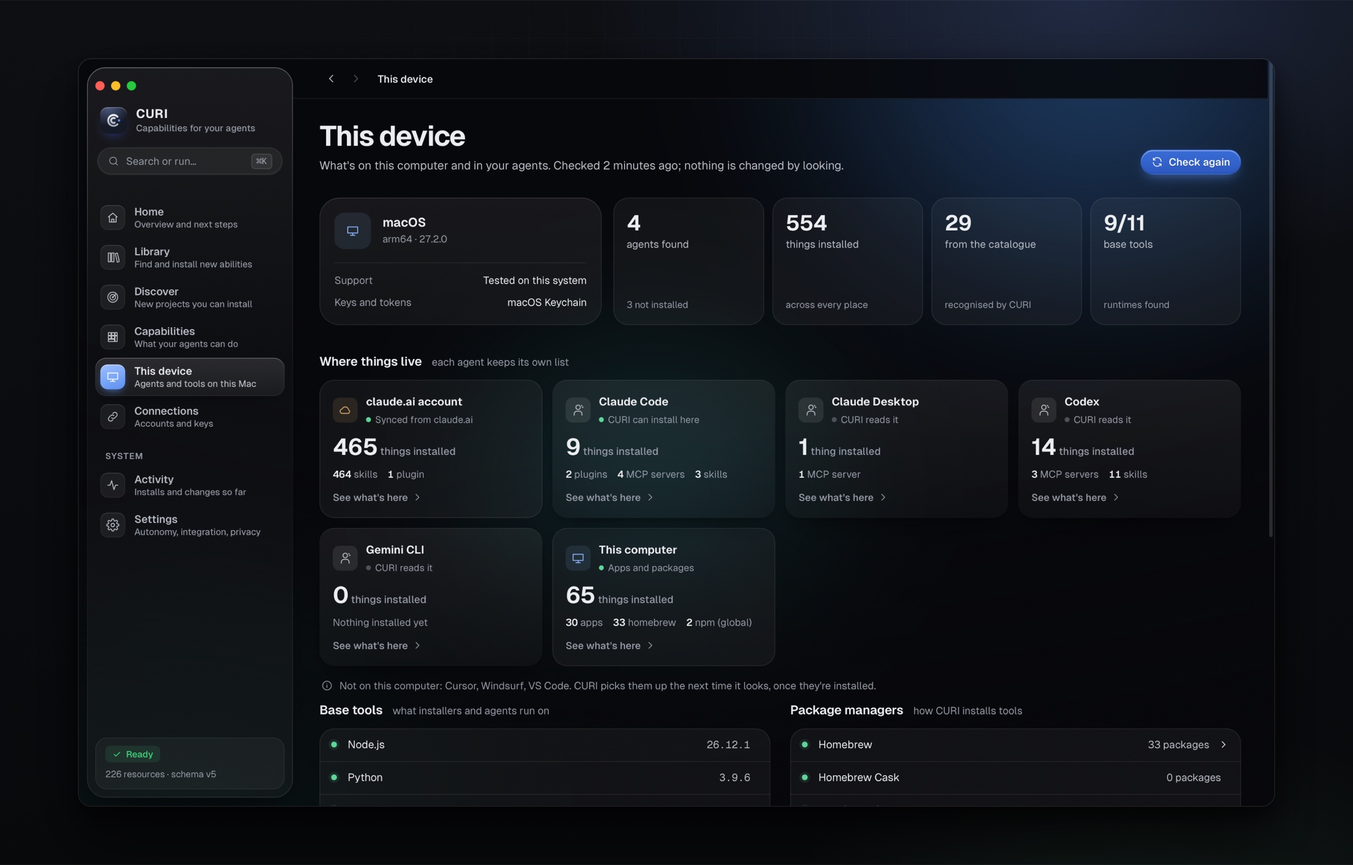
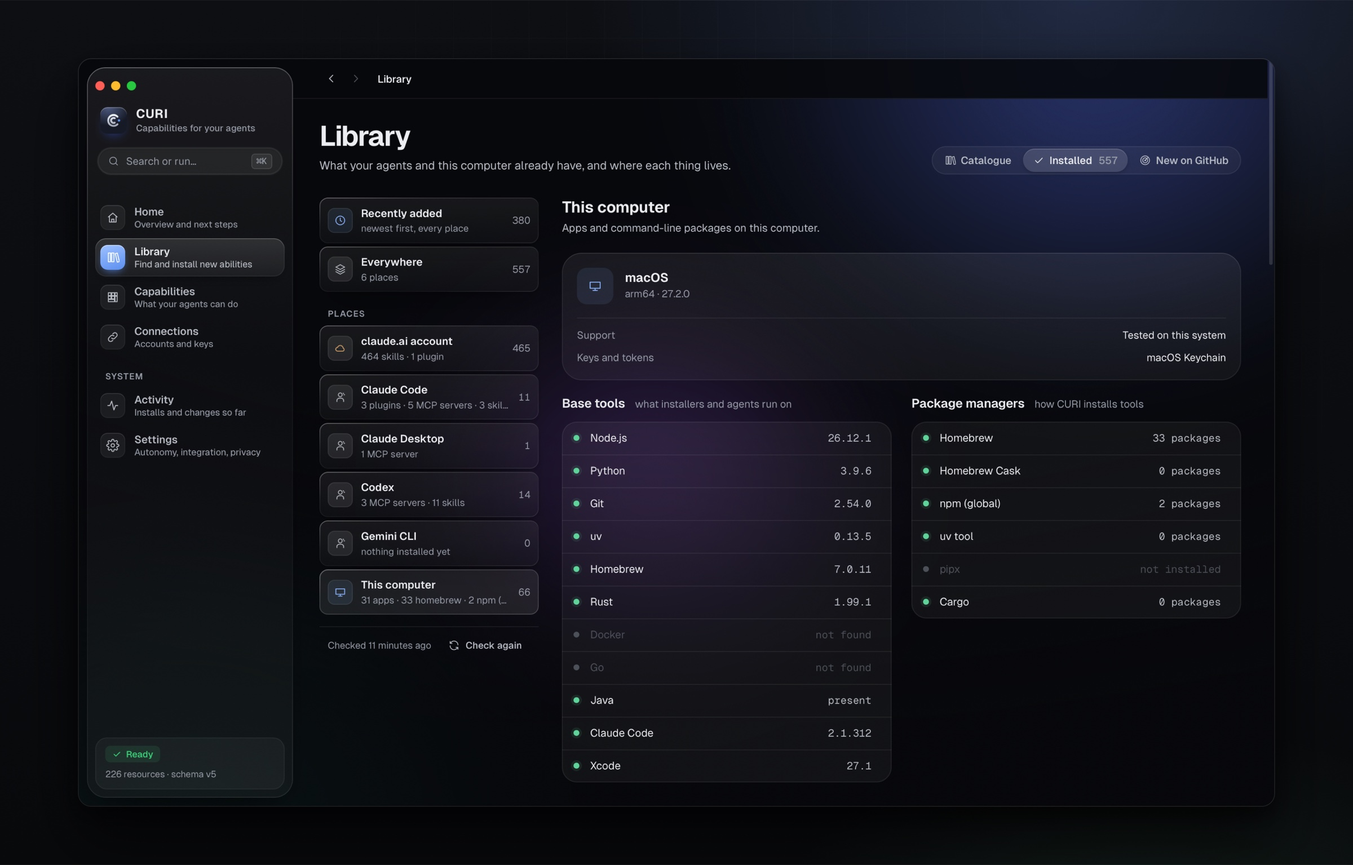
Library with three tabs, This device folded into Installed
Library: Catalogue, Installed and New on GitHub (formerly Discover).
This device becomes Installed › This computer, with the system, base
tools and package managers above its list. Sidebar, shortcuts and the
macOS menu follow; old links redirect. Weekly GitHub discovery and the
stars review are on by default (read-only). Screenshots re-rendered.

diff --git a/app/views/device.js b/app/views/device.js
@@ -1,83 +1,31 @@
-// This device: the computer, the agents on it and the base tools they rely on, at a glance. The full
-// list of what each agent holds lives in Library › Installed; every number here opens it.
-import { h, relTime } from '../lib/dom.js';
+// This computer, at a glance: the system, the base tools installers and agents run on, and the package
+// managers CURI installs through. Shown at the top of Library › Installed › This computer.
+import { h } from '../lib/dom.js';
 import { icon } from '../lib/icons.js';
-import { api, btn, empty, notice } from '../lib/ui.js';
-import { go } from '../app.js';
-import { runOperation } from './control.js';
 
 const RT = [['node', 'Node.js'], ['python3', 'Python'], ['git', 'Git'], ['uv', 'uv'], ['homebrew', 'Homebrew'], ['cargo', 'Rust'], ['docker', 'Docker'], ['go', 'Go'], ['java', 'Java'], ['claude', 'Claude Code'], ['xcode', 'Xcode']];
 const SUPPORT = { tested: 'Tested on this system', 'implemented-untested': 'Implemented, not yet tested here' };
-const PLACE_ICON = { account: 'cloud', agent: 'agent', computer: 'device' };
 // "MCP servers" with one item reads "1 MCP server".
 export const noun = (label, n) => { const l = label.replace(/ synced.*/, ''); const w = /^[A-Z]{2,}/.test(l) ? l : l.toLowerCase(); return n === 1 ? w.replace(/s$/, '').replace(/s( \(|$)/, '$1') : w; };
-const openPlace = id => go(`library?tab=installed&place=${encodeURIComponent(id)}`);
 
-function tile(label, value, sub, onclick) {
-  const el = h(onclick ? 'button' : 'div', { class: 'dv-stat', type: onclick ? 'button' : null }, h('span', { class: 'v num' }, String(value)), h('span', { class: 'l' }, label), sub ? h('span', { class: 's' }, sub) : null);
-  if (onclick) el.addEventListener('click', onclick);
-  return el;
-}
-
-function placeCard(p, agent) {
-  const parts = p.groups.map(g => h('span', null, h('b', { class: 'num' }, String(g.items.length)), ` ${noun(g.label, g.items.length)}`));
-  const managed = p.kind === 'account' ? ['account', 'Synced from claude.ai'] : p.kind === 'computer' ? ['installed', 'Apps and packages'] : agent?.writable ? ['installed', 'CURI can install here'] : ['reference', 'CURI reads it'];
-  const el = h('button', { type: 'button', class: `dv-agent ${p.kind}` },
-    h('div', { class: 'top' }, h('span', { class: 'ic' }, icon(PLACE_ICON[p.kind] || 'agent')), h('span', { class: 'nm' }, h('strong', null, p.label), h('span', { class: `st ${managed[0]}` }, managed[1]))),
-    h('div', { class: 'big num' }, String(p.count), h('span', null, p.count === 1 ? ' thing installed' : ' things installed')),
-    h('div', { class: 'parts' }, parts.length ? parts : h('span', null, 'Nothing installed yet')),
-    h('div', { class: 'go' }, 'See what\'s here', icon('chevron', 'sm')));
-  el.addEventListener('click', () => openPlace(p.id));
-  return el;
-}
-
-export async function device() {
-  const [d, inv] = await Promise.all([api('device'), api('installed')]);
-  const r = d.scan;
-  const scan = btn('Check again', () => runOperation('system.scan', {}, 'Look at this device again'), { kind: 'primary', iconName: 'refresh' });
-  const head = h('header', { class: 'page-head' }, h('div', null, h('h1', null, 'This device'),
-    h('p', null, r ? `What's on this computer and in your agents. Checked ${relTime(r.scanned_at)}; nothing is changed by looking.` : 'What\'s on this computer and in your agents.')), h('div', { class: 'actions' }, scan));
-  if (!r?.agents) return h('div', { class: 'page' }, head, empty('device', 'CURI hasn\'t looked at this device yet', 'It reads, without changing anything, your apps, command-line tools, package managers and each agent\'s configuration (Claude Code, Claude Desktop, Codex, Cursor, Gemini CLI, Windsurf, VS Code).', scan));
-
-  const agents = new Map(r.agents.map(a => [a.id, a]));
-  const absent = r.agents.filter(a => !a.present).map(a => a.label);
-  const total = inv.places.reduce((n, p) => n + p.count, 0);
+export function computerOverview(d) {
+  const r = d?.scan;
+  if (!r) return null;
   const managers = Object.entries(r.managers || {});
   const rts = RT.filter(([k]) => k in (r.runtimes || {}));
-  const rtFound = rts.filter(([k]) => r.runtimes[k]).length;
-
-  return h('div', { class: 'page dv' }, head,
-    h('section', { class: 'dv-hero' },
-      h('div', { class: 'dv-sys' },
-        h('span', { class: 'ic' }, icon('device')),
-        h('div', null, h('strong', null, d.label), h('span', null, `${d.arch} · ${r.device?.release || ''}`)),
-        h('dl', null,
-          h('div', null, h('dt', null, 'Support'), h('dd', null, SUPPORT[d.support] || d.support)),
-          h('div', null, h('dt', null, 'Keys and tokens'), h('dd', null, d.credential_store)))),
-      h('div', { class: 'dv-stats' },
-        tile('agents found', r.agents.filter(a => a.present).length, absent.length ? `${absent.length} not installed` : null),
-        tile('things installed', total, 'across every place', () => openPlace('')),
-        tile('from the catalogue', r.matched.length, 'recognised by CURI', () => go('library?tab=catalogue&view=here')),
-        tile('base tools', `${rtFound}/${rts.length}`, 'runtimes found'))),
-
-    h('div', { class: 'sec' }, h('h2', null, 'Where things live'), h('span', { class: 'meta' }, 'each agent keeps its own list')),
-    h('div', { class: 'dv-agents' }, inv.places.map(p => placeCard(p, agents.get(p.id)))),
-    absent.length ? h('p', { class: 'dv-absent' }, icon('info', 'sm'), `Not on this computer: ${absent.join(', ')}. CURI picks them up the next time it looks, once they're installed.`) : null,
-
+  const li = (on, name, value) => h('div', { class: `dv-li ${on ? '' : 'off'}` }, h('span', { class: `dot ${on ? 'good' : ''}`, 'aria-hidden': 'true' }), h('span', { class: 'n' }, name), h('span', { class: 'v mono' }, value));
+  return h('section', { class: 'dv-computer' },
+    h('div', { class: 'dv-sys' },
+      h('span', { class: 'ic' }, icon('device')),
+      h('div', null, h('strong', null, d.label), h('span', null, `${d.arch} · ${r.device?.release || ''}`)),
+      h('dl', null,
+        h('div', null, h('dt', null, 'Support'), h('dd', null, SUPPORT[d.support] || d.support)),
+        h('div', null, h('dt', null, 'Keys and tokens'), h('dd', null, d.credential_store)))),
     h('div', { class: 'dv-cols' },
       h('section', null,
         h('div', { class: 'sec' }, h('h2', null, 'Base tools'), h('span', { class: 'meta' }, 'what installers and agents run on')),
-        h('div', { class: 'dv-list' }, rts.map(([k, l]) => h('div', { class: `dv-li ${r.runtimes[k] ? '' : 'off'}` },
-          h('span', { class: `dot ${r.runtimes[k] ? 'good' : ''}`, 'aria-hidden': 'true' }), h('span', { class: 'n' }, l), h('span', { class: 'v mono' }, r.runtimes[k] || 'not found'))))),
+        h('div', { class: 'dv-list' }, rts.map(([k, l]) => li(Boolean(r.runtimes[k]), l, r.runtimes[k] || 'not found')))),
       h('section', null,
         h('div', { class: 'sec' }, h('h2', null, 'Package managers'), h('span', { class: 'meta' }, 'how CURI installs tools')),
-        h('div', { class: 'dv-list' }, managers.map(([k, m]) => {
-          const el = h(m.available && m.count ? 'button' : 'div', { class: `dv-li ${m.available ? '' : 'off'}`, type: m.available && m.count ? 'button' : null },
-            h('span', { class: `dot ${m.available ? 'good' : ''}`, 'aria-hidden': 'true' }), h('span', { class: 'n' }, m.label),
-            h('span', { class: 'v' }, m.available ? (m.system ? 'system, read-only' : `${m.count ?? 0} package${m.count === 1 ? '' : 's'}`) : 'not installed'),
-            m.available && m.count ? icon('chevron', 'sm') : null);
-          if (m.available && m.count) el.addEventListener('click', () => openPlace('computer'));
-          return el;
-        })))),
-    h('div', { style: { marginTop: '22px' } }, notice('info', 'Libraries used inside projects (React, Zod, Three.js…) belong to each project, so they aren\'t listed here. Skills and plugins from your claude.ai account are read from the copy Claude Desktop keeps; you change them on claude.ai.')));
+        h('div', { class: 'dv-list' }, managers.map(([, m]) => li(m.available, m.label, m.available ? (m.system ? 'system, read-only' : `${m.count ?? 0} package${m.count === 1 ? '' : 's'}`) : 'not installed'))))));
 }

diff --git a/app/app.js b/app/app.js
@@ -10,8 +10,6 @@ import { jobs, audit, settings, about } from './views/system.js';
 import { connections, integrations, automation, operations } from './views/control.js';
 import { home } from './views/home.js';
 import { capabilitiesView } from './views/capabilities.js';
-import { device } from './views/device.js';
-import { discoverView } from './views/discover.js';
 import { promptDialog } from './lib/ui.js';
 import { startWatcher, withProgress } from './lib/opmodal.js';
 
@@ -51,12 +49,10 @@ const tabbed = (tabs, view) => async (...a) => {
 const ROUTES = [
   { id: 'home', sub: 'Overview and next steps', label: 'Home', icon: 'home', group: 'CURI', view: home, key: '1' },
   { id: 'library', sub: 'Find and install new abilities', label: 'Library', icon: 'library', group: 'CURI', view: library, key: '2' },
-  { id: 'discover', sub: 'New projects you can install', label: 'Discover', icon: 'radar', group: 'CURI', view: discoverView, key: '3' },
-  { id: 'capabilities', sub: 'What your agents can do', label: 'Capabilities', icon: 'map', group: 'CURI', view: capabilitiesView, key: '4' },
-  { id: 'device', sub: 'Your agents and tools', label: 'This device', icon: 'device', group: 'CURI', view: device, key: '5' },
-  { id: 'connections', sub: 'Accounts and keys', label: 'Connections', icon: 'link', group: 'CURI', view: connections, key: '6' },
-  { id: 'operations', sub: 'Installs and changes so far', label: 'Activity', icon: 'activity', group: 'System', view: tabbed(ACTIVITY_TABS, operations), key: '7' },
-  { id: 'settings', sub: 'Autonomy, integration, privacy', label: 'Settings', icon: 'settings', group: 'System', view: tabbed(SETTINGS_TABS, settings), key: '8' },
+  { id: 'capabilities', sub: 'What your agents can do', label: 'Capabilities', icon: 'map', group: 'CURI', view: capabilitiesView, key: '3' },
+  { id: 'connections', sub: 'Accounts and keys', label: 'Connections', icon: 'link', group: 'CURI', view: connections, key: '4' },
+  { id: 'operations', sub: 'Installs and changes so far', label: 'Activity', icon: 'activity', group: 'System', view: tabbed(ACTIVITY_TABS, operations), key: '5' },
+  { id: 'settings', sub: 'Autonomy, integration, privacy', label: 'Settings', icon: 'settings', group: 'System', view: tabbed(SETTINGS_TABS, settings), key: '6' },
   { id: 'audit', hidden: true, parent: 'operations', label: 'Audit log', view: tabbed(ACTIVITY_TABS, audit) },
   { id: 'jobs', hidden: true, parent: 'operations', label: 'Searches and quotas', view: tabbed(ACTIVITY_TABS, jobs) },
   { id: 'automation', hidden: true, parent: 'settings', label: 'Autonomy', view: tabbed(SETTINGS_TABS, automation) },
@@ -66,13 +62,14 @@ const ROUTES = [
   { id: 'compare', hidden: true, parent: 'library', label: 'Compare', view: compareView },
   { id: 'resource', hidden: true, parent: 'library', label: 'Resource', view: resource },
   { id: 'integrations', hidden: true, parent: 'library', label: 'Quick integrations', view: integrations },
-  { id: 'skills', hidden: true, parent: 'device', label: 'Skills', view: skills },
-  { id: 'mcp', hidden: true, parent: 'device', label: 'MCP servers', view: mcp },
+  { id: 'skills', hidden: true, parent: 'library', label: 'Skills', view: skills },
+  { id: 'mcp', hidden: true, parent: 'library', label: 'MCP servers', view: mcp },
   { id: 'welcome', hidden: true, label: 'Welcome', view: welcome },
   { id: 'wizard', hidden: true, label: 'Setup', view: wizard },
 ];
-// Old addresses keep working.
-const ALIASES = { dashboard: 'home', radar: 'discover', map: 'capabilities', machine: 'device' };
+// Old addresses keep working. Discover is now Library › New on GitHub; This device is Library ›
+// Installed › This computer.
+const ALIASES = { dashboard: 'home', radar: 'library?tab=new', discover: 'library?tab=new', map: 'capabilities', machine: 'library?tab=installed&place=computer', device: 'library?tab=installed&place=computer' };
 const byId = Object.fromEntries(ROUTES.map(r => [r.id, r]));
 
 export const params = () => new URLSearchParams(location.hash.split('?')[1] || '');
@@ -201,7 +198,7 @@ export async function mount() {
   const main = document.getElementById('main');
   if (!TOKEN) { fill(main, h('div', { class: 'page' }, empty('lock', 'No session token', 'Open CURI from the app, or run "curi app" to get an authenticated link.'))); return; }
   const [path, arg] = location.hash.replace(/^#\//, '').split('?')[0].split('/');
-  if (ALIASES[path]) { location.replace(`#/${ALIASES[path]}${location.hash.includes('?') ? `?${location.hash.split('?')[1]}` : ''}`); return; }
+  if (ALIASES[path]) { const extra = location.hash.split('?')[1]; const to = ALIASES[path]; location.replace(`#/${to}${extra ? (to.includes('?') ? '&' : '?') + extra : ''}`); return; }
   const route = byId[path];
   if (!route) {
     const s = await api('bootstrapState').catch(() => ({ state: 'UNINITIALIZED' }));
@@ -272,7 +269,7 @@ function openPalette() {
     { label: 'Revoke autonomy', icon: 'lock', run: async () => { await api('policyRevoke'); toast('Autonomy revoked', 'good'); } },
     { label: 'Add a URL to the catalogue', icon: 'plus', run: () => window.__curiMenu('add-url-dialog') },
     { label: 'Export registry', icon: 'download', run: () => withProgress('Exporting the registry', () => api('exportFile').then(r => `${r.count} resources exported to ${r.file}`)) },
-    { label: 'Detect what\'s installed', icon: 'refresh', run: () => go('device') },
+    { label: 'Detect what\'s installed', icon: 'refresh', run: () => go('library?tab=installed&place=computer') },
     { label: 'Toggle light/dark theme', icon: 'sparkle', run: () => applyTheme(matchMedia('(prefers-color-scheme: dark)').matches ? (currentTheme() === 'light' ? 'system' : 'light') : (currentTheme() === 'dark' ? 'system' : 'dark')) },
   ];
   let items = [], sel = 0, seq = 0;

diff --git a/app/views/installed.js b/app/views/installed.js
@@ -8,7 +8,7 @@ import { api, btn, empty, pager } from '../lib/ui.js';
 import { go, params } from '../app.js';
 import { runOperation } from './control.js';
 import { runAction } from './common.js';
-import { noun } from './device.js';
+import { noun, computerOverview } from './device.js';
 
 const PLACE_ICON = { account: 'cloud', agent: 'agent', computer: 'device', recent: 'clock', all: 'layers' };
 const TYPE_ICON = { 'account-skill': 'skills', skill: 'skills', plugin: 'layers', mcp: 'mcp', app: 'grid' };
@@ -20,14 +20,14 @@ const lsSet = (k, v) => { try { localStorage.setItem(k, v); } catch {} };
 const SIZE = 40;
 
 export async function installedView(onCount) {
-  let inv = await api('installed');
+  let [inv, dev] = await Promise.all([api('installed'), api('device')]);
   const st = { place: params().get('place') ?? lsGet('curi-inst-place', 'recent'), group: '', q: '', page: 0,
     sort: lsGet('curi-inst-sort', 'name'), days: Number(lsGet('curi-inst-days', '30')), who: lsGet('curi-inst-who', 'claude') };
   const side = h('nav', { class: 'inv-places', 'aria-label': 'Where things are installed' });
   const main = h('div', { class: 'inv-main', 'aria-live': 'polite' });
   const input = h('input', { type: 'search', placeholder: 'Find something you installed, anywhere', 'aria-label': 'Search what is installed' });
 
-  const reload = async () => { inv = await api('installed'); render(); };
+  const reload = async () => { [inv, dev] = await Promise.all([api('installed'), api('device')]); render(); };
   const rescan = () => runOperation('system.scan', {}, 'Look at this device again', { refresh: false }).then(reload);
   const match = it => !st.q || `${it.name} ${it.description || ''} ${it.origin || ''} ${it.resource?.name || ''}`.toLowerCase().includes(st.q);
   const total = () => inv.places.reduce((n, p) => n + p.count, 0);
@@ -132,7 +132,7 @@ export async function installedView(onCount) {
       }
       return out.map(s => h('section', { class: 'inv-sec' }, h('h3', null, s.label, h('span', { class: 'n' }, String(s.n))), h('div', { class: 'inv-list', role: 'list' }, s.rows)));
     };
-    fill(main, head, h('div', { class: 'inv-tools' }, h('div', { class: 'searchbox' }, icon('search', 'sm'), input), tabs, sort),
+    fill(main, head, place?.kind === 'computer' ? computerOverview(dev) : null, h('div', { class: 'inv-tools' }, h('div', { class: 'searchbox' }, icon('search', 'sm'), input), tabs, sort),
       rows.length ? paged(rows, draw)
         : st.q ? empty('search', `Nothing installed matches "${st.q}"`, 'It may not be on this device yet. The catalogue can find and install it.', btn('Search the catalogue', () => go(`library?tab=catalogue&q=${encodeURIComponent(st.q)}`), { kind: 'primary' }))
         : empty('box', 'Nothing here yet', place?.kind === 'agent' && !place.present ? `${place.label} isn't installed on this computer.` : 'Install something from the catalogue and it shows up here.', btn('Browse the catalogue', () => go('library?tab=catalogue'), { kind: 'primary' })));

diff --git a/app/views/system.js b/app/views/system.js
@@ -57,7 +57,7 @@ export async function settings() {
         row('Install policy', 'Minimal global: only CURI\'s own skill and MCP; everything else on demand.', policy),
         row('Model-assisted analysis', 'Uses your Claude account; off by default.', h('span', { class: 'switch' }, model, h('span'))),
         row('Telemetry', 'Always off.', badge('off')),
-        row('Scheduled searches', 'Set them up in Discover (saved searches) and Autonomy.', badge('see Autonomy')),
+        row('Scheduled searches', 'CURI looks for new projects once a week. Save your own searches in Library › New on GitHub; change how often in Autonomy.', badge('see Autonomy')),
         h('div', { class: 'r' }, h('span', { class: 'spacer' }), btn('Save', async () => { await api('prefsSet', { github_budget: Number(budget.value), install_policy: policy.value, model_analysis: model.checked }); toast('Preferences saved', 'good'); }, { kind: 'primary' })))),
       panel({ title: 'Data', flush: true }, h('div', { class: 'rows' },
         row('CURI data', h('span', { class: 'mono' }, pf.paths.curi_data)), row('Claude profile', h('span', { class: 'mono' }, pf.paths.claude_home)), row('User MCP', h('span', { class: 'mono' }, pf.paths.claude_json)),
@@ -69,7 +69,7 @@ const kvResult = r => kv(Object.entries(r).map(([k, v]) => [k, String(v)]));
 
 export async function about() {
   const [s, b] = await Promise.all([api('status'), api('bootstrapState')]);
-  const keys = [[mod('K'), 'Command palette'], [mod('1–9'), 'Move between sections'], [mod(','), 'Settings'], ['/', 'Focus the page search'], [mod('R'), 'Refresh data'], ['Esc', 'Close dialogs and menus'], ['Right-click or ⋯', 'Actions on a resource'], ['Drag a URL', 'Add to the catalogue']];
+  const keys = [[mod('K'), 'Command palette'], [mod('1–6'), 'Move between sections'], [mod(','), 'Settings'], ['/', 'Focus the page search'], [mod('R'), 'Refresh data'], ['Esc', 'Close dialogs and menus'], ['Right-click or ⋯', 'Actions on a resource'], ['Drag a URL', 'Add to the catalogue']];
   return h('div', { class: 'page narrow' },
     h('div', { class: 'about-mark' }, brandMark({ size: 64 }), h('img', { src: 'brand/curi-wordmark-on-dark.svg', alt: 'CURI', class: 'about-wordmark' })),
     pageHead({ eyebrow: 'System', title: 'About CURI', sub: `CURI ${s.version || ''}: Node engine (SQLite/FTS5), CLI, stdio MCP server, Claude skill and native Tauri app.` }),

diff --git a/app/views/library.js b/app/views/library.js
@@ -8,6 +8,7 @@ import { go, mount, params, compareTray } from '../app.js';
 import { runOperation } from './control.js';
 import { installedView } from './installed.js';
 import { catalogueView } from './catalogue.js';
+import { discoverView } from './discover.js';
 import { KIND_ICON, STATE_LABEL, stateChip, kindTile, where, runAction, actionButton, cmdLine, addToProject, personalPanel } from './common.js';
 
 export const TYPE_ICON = { Skill: 'skills', Plugin: 'layers', MCP: 'mcp', Library: 'library', Framework: 'library', Tool: 'terminal', Documentation: 'info', Registry: 'search', Template: 'copy', Inspiration: 'sparkle' };
@@ -47,7 +48,16 @@ export async function library() {
   const count = h('span', { class: 'n' });
   const tabs = h('nav', { class: 'tabs lib-tabs', 'aria-label': 'Library' },
     h('a', { href: '#/library?tab=catalogue', 'aria-current': tab === 'catalogue' ? 'page' : null }, icon('library', 'sm'), 'Catalogue'),
-    h('a', { href: '#/library?tab=installed', onclick: e => { if (tab === 'installed') e.preventDefault(); }, 'aria-current': tab === 'installed' ? 'page' : null }, icon('check', 'sm'), 'Installed', tab === 'installed' ? count : null));
+    h('a', { href: '#/library?tab=installed', onclick: e => { if (tab === 'installed') e.preventDefault(); }, 'aria-current': tab === 'installed' ? 'page' : null }, icon('check', 'sm'), 'Installed', tab === 'installed' ? count : null),
+    h('a', { href: '#/library?tab=new', 'aria-current': tab === 'new' ? 'page' : null }, icon('radar', 'sm'), 'New on GitHub'));
+  if (tab === 'new') {
+    // New projects found on GitHub that aren't in the catalogue yet; adding one puts it in the catalogue.
+    const page = await discoverView();
+    page.querySelector('.page-head h1')?.replaceChildren('New on GitHub');
+    const actions = page.querySelector('.page-head .actions');
+    if (actions) actions.prepend(tabs); else page.querySelector('.page-head')?.append(h('div', { class: 'actions' }, tabs));
+    return page;
+  }
   if (tab === 'installed') {
     const body = await installedView(n => { count.textContent = String(n); });
     return h('div', { class: 'page' },

diff --git a/app/views/home.js b/app/views/home.js
@@ -115,7 +115,7 @@ export async function home() {
           h('div', null, h('div', { class: 'cap-t' }, r.label), h('div', { class: 'via' }, `${r.can} — `, h('a', { href: `#/resource/${encodeURIComponent(r.resource.id)}` }, r.resource.name), ` (${r.resource.kind_label})`)),
           btn('Get', () => getVia(r.resource), { size: 'sm', kind: 'primary', iconName: 'download' })))) : empty('check', 'Nothing urgent', 'Every agent capability with a provider in the catalogue is already available.')),
       h('section', null,
-        h('div', { class: 'sec' }, h('h2', null, 'Relevant discoveries'), h('span', { class: 'end' }, btn('Discover', () => go('discover'), { kind: 'ghost', size: 'sm', iconName: 'arrow' }))),
+        h('div', { class: 'sec' }, h('h2', null, 'New on GitHub'), h('span', { class: 'end' }, btn('See all', () => go('library?tab=new'), { kind: 'ghost', size: 'sm', iconName: 'arrow' }))),
         fresh.length ? h('div', { class: 'box' }, h('ul', { class: 'plain-list' }, fresh.slice(0, 5).map(c => h('li', null, icon('sparkle', 'sm'),
           h('div', { class: 'grow' }, h('div', null, c.full_name.split('/')[1]), h('div', { class: 't2' }, c.score.agent.how || c.description || '')),
           h('span', { class: 'muted num' }, `${compact(c.stars)} ★`))))) :

diff --git a/app/views/catalogue.js b/app/views/catalogue.js
@@ -212,7 +212,7 @@ export async function catalogueView(tabs) {
     announce.textContent = `${rows.length} ${rows.length === 1 ? 'result' : 'results'}`;
     if (st.page * 48 >= rows.length) st.page = 0;
     fill(body, rows.length ? h('div', { class: 'cat-grid', role: 'list' }, rows.slice(st.page * 48, (st.page + 1) * 48).map(card))
-      : empty('search', 'Nothing here yet', ranked ? 'Nothing in the catalogue matches. Discover can search GitHub for it.' : 'Try another area or kind.', ranked ? btn('Search GitHub', () => go(`discover?intent=${encodeURIComponent(st.q)}`), { iconName: 'radar' }) : null),
+      : empty('search', 'Nothing here yet', ranked ? 'Nothing in the catalogue matches. New on GitHub can look for it.' : 'Try another area or kind.', ranked ? btn('Search GitHub', () => go(`discover?intent=${encodeURIComponent(st.q)}`), { iconName: 'radar' }) : null),
       pager(rows.length, st.page, 48, n => { st.page = n; render(); body.scrollIntoView({ block: 'start', behavior: smooth() }); }, { noun: 'resources' }));
   };
 

diff --git a/app/views/discover.js b/app/views/discover.js
@@ -130,7 +130,7 @@ export async function discoverView() {
   };
   render();
   return h('div', { class: 'page' },
-    h('header', { class: 'page-head' }, h('div', null, h('h1', null, 'Discover'),
+    h('header', { class: 'page-head' }, h('div', null, h('h1', null, 'New on GitHub'),
       h('p', null, 'New GitHub projects that give your agents something they can\'t do yet. CURI inspects each one and only shows what it can install here, in one click.')),
       h('div', { class: 'actions' },
         connected ? btn('Read my stars', () => runOperation('github.stars', {}, 'Read GitHub stars', { refresh: false }).then(refresh), { kind: 'ghost', iconName: 'star' }) : null,

diff --git a/app/world.css b/app/world.css
@@ -566,3 +566,7 @@ main > .pagebar:has(+ .page.home) { background: transparent; box-shadow: none; -
 .recent-box .sec { margin-top: 10px; }
 @media (max-width: 1100px) { .start { grid-template-columns: 1fr; } }
 @media (max-width: 760px) { .doors { grid-template-columns: 1fr; } }
+
+/* Library › Installed › This computer: the system, base tools and package managers above the list. */
+.dv-computer { display: grid; gap: 18px; margin: 4px 0 26px; }
+.dv-computer .dv-cols { margin-top: 0; }

diff --git a/desktop/src-tauri/src/main.rs b/desktop/src-tauri/src/main.rs
@@ -247,7 +247,7 @@ fn build_menu(app: &tauri::AppHandle) -> tauri::Result<Menu<tauri::Wry>> {
         true,
         &[
             &item("add-url", "Add URL…", Some("CmdOrCtrl+N"))?,
-            &item("route:radar", "New Discovery", Some("CmdOrCtrl+Shift+N"))?,
+            &item("route:radar", "Search GitHub…", Some("CmdOrCtrl+Shift+N"))?,
             &sep()?,
             &PredefinedMenuItem::close_window(app, Some("Close Window"))?,
         ],
@@ -275,13 +275,14 @@ fn build_menu(app: &tauri::AppHandle) -> tauri::Result<Menu<tauri::Wry>> {
             &sep()?,
             &item("route:home", "Home", Some("CmdOrCtrl+1"))?,
             &item("route:library", "Library", Some("CmdOrCtrl+2"))?,
-            &item("route:discover", "Discover", Some("CmdOrCtrl+3"))?,
-            &item("route:capabilities", "Capabilities", Some("CmdOrCtrl+4"))?,
-            &item("route:device", "This Device", Some("CmdOrCtrl+5"))?,
-            &item("route:connections", "Connections", Some("CmdOrCtrl+6"))?,
-            &item("route:operations", "Activity", Some("CmdOrCtrl+7"))?,
-            &item("route:settings", "Settings", Some("CmdOrCtrl+8"))?,
-            &item("route:automation", "Autonomy", Some("CmdOrCtrl+9"))?,
+            &item("route:capabilities", "Capabilities", Some("CmdOrCtrl+3"))?,
+            &item("route:connections", "Connections", Some("CmdOrCtrl+4"))?,
+            &item("route:operations", "Activity", Some("CmdOrCtrl+5"))?,
+            &item("route:settings", "Settings", Some("CmdOrCtrl+6"))?,
+            &item("route:automation", "Autonomy", Some("CmdOrCtrl+7"))?,
+            &sep()?,
+            &item("route:library?tab=installed", "Installed", None)?,
+            &item("route:discover", "New on GitHub", None)?,
             &sep()?,
             &item("reload", "Reload", Some("CmdOrCtrl+R"))?,
             &PredefinedMenuItem::fullscreen(app, Some("Enter Full Screen"))?,

diff --git a/README.md b/README.md
@@ -42,8 +42,8 @@ So I built CURI. It reads what's already on your computer and in your agents, li
   </tr>
   <tr>
     <td width="50%" valign="top">
-      <img src="docs/screenshots/discover.jpg" alt="Discover new GitHub projects">
-      <p><b>Discover.</b> New GitHub projects, judged by what they'd add to an agent. CURI inspects each one and only shows what it can install.</p>
+      <img src="docs/screenshots/discover.jpg" alt="New on GitHub: projects CURI found and can install">
+      <p><b>New on GitHub.</b> Projects CURI finds each week (and from your stars), judged by what they'd add to an agent. It inspects each one and only shows what it can install.</p>
     </td>
     <td width="50%" valign="top">
       <img src="docs/screenshots/capabilities.jpg" alt="Capabilities grouped by area">
@@ -52,8 +52,8 @@ So I built CURI. It reads what's already on your computer and in your agents, li
   </tr>
   <tr>
     <td width="50%" valign="top">
-      <img src="docs/screenshots/device.jpg" alt="This device overview">
-      <p><b>This device.</b> The computer, every agent on it and the tools they run on, at a glance.</p>
+      <img src="docs/screenshots/device.jpg" alt="Installed, This computer: system, base tools and package managers">
+      <p><b>This computer.</b> The system, the base tools your agents run on and the package managers CURI installs through, above everything installed on it.</p>
     </td>
     <td width="50%" valign="top">
       <img src="docs/screenshots/resource.jpg" alt="A resource page">

diff --git a/CHANGELOG.md b/CHANGELOG.md
@@ -10,6 +10,12 @@
 - *Check for Updates…* in the menu bar or tray, and *Check* in Settings › About, look right away.
 - The README, the release notes and the macOS disk image explain the one-time "can't verify" step for the first install (*Open Anyway* on macOS, *More info › Run anyway* on Windows); downloading the file is the main way to install again, with the terminal command as an option.
 
+**Simpler layout**
+- Library has three tabs: **Catalogue**, **Installed** and **New on GitHub** (what used to be Discover). The sidebar is down to Home, Library, Capabilities, Connections, Activity and Settings.
+- *This device* is now *Installed › This computer*: the system, the base tools and the package managers sit above everything installed on it, instead of repeating the Installed lists on a page of their own.
+- Old links (Discover, This device) open the new places. Shortcuts follow the sidebar: ⌘1 Home, ⌘2 Library, ⌘3 Capabilities, ⌘4 Connections, ⌘5 Activity, ⌘6 Settings.
+- CURI now looks for new projects on GitHub once a week, and reviews your GitHub stars when GitHub is connected, so *New on GitHub* fills up on its own. Both only read; change how often (or turn them off) in Settings › Autonomy.
+
 **Releases**
 - A version tag now also builds the signed update files and a `latest.json` for installed copies, with the CHANGELOG section as the *What's new* text. Release notes include the install commands.
 
